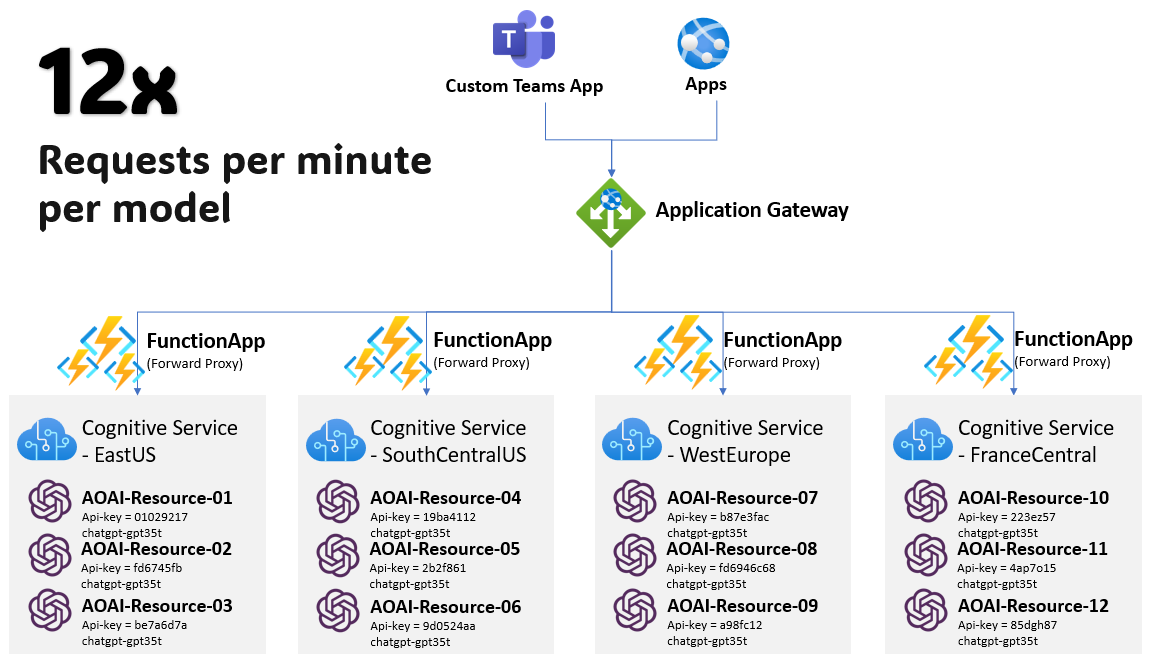
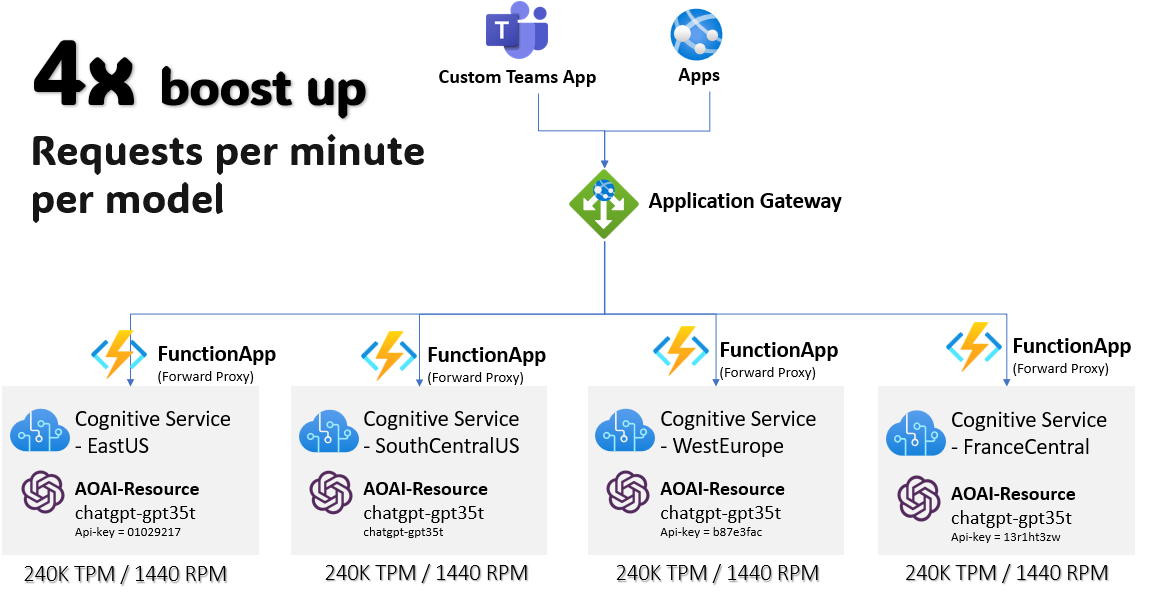
update new quotas and limits

diff --git a/README.md b/README.md
@@ -1,14 +1,17 @@
 
-# Boost up 12x Request per minute for your AOAI Resources
+# Boost up 4x Request per minute for your AOAI Resources
 ![concept1](https://github.com/denlai-mshk/aoai-fwdproxy-funcapp/blob/main/screenshots/concept1.png)
 
 ## Fully utilize AOAI quotas and limits
-As at June 2023, **one subscription** can provision **three AOAI resources per region**. Currently, there are four regional Cognitive services that support Azure OpenAI -*EastUS, South Cental US, West Europe and France Central* which allows for a **maximium 12 instances** of the same AOAI model can be provisoned across these four regions. This means you can achieve up to *(300x12/60)* = **maximium 60 request per second** for your ChatGPT model. If this is still not enough to meet your production workload requirements, you can consider getting additional subscriptions to create an AOAI resources RAID.
+As at 12 June 2023, **one subscription** can provision **30 AOAI resources per region**, sharing the same TPM and RPM limits. For example, you can allocate 3 deployment instances of GPT-35-Turbo with 80K TPM/480 RPM each to utilize the whole TPM/RPM limits for one region.
 
 ![limit](https://github.com/denlai-mshk/aoai-fwdproxy-funcapp/blob/main/screenshots/limit.png)
+![limit](https://github.com/denlai-mshk/aoai-fwdproxy-funcapp/blob/main/screenshots/newlimit.png)
+
+Currently, there are four regional Cognitive services that support Azure OpenAI -*EastUS, South Cental US, West Europe and France Central* which allows for a **maximium 120 instances** of the same AOAI model can be provisoned across these four regions. This means you can achieve up to *(1440x4/60)* = **maximium 96 request per second** for your ChatGPT model. If this is still not enough to meet your production workload requirements, you can consider getting additional subscriptions to create an AOAI resources RAID.
 
 ## Why not just raise your quotas and limits?
-You can certainly apply for quota increase requests by filling out forms, but this may not be the most practical solution as it won't give you access to the additional resources right away. Furthermore, what happens if your AOAI service demand continues to grow? Utilizing your existing quotas is the more practical solution to tackle your AOAI resource bottleneck. Remember that the **actual quotas and limits** you got is maximium 12 model instances for 1 subscription. If you have concerns on cross-region networking cost, just provison three AOAI resource instances in your favorite region with **three** same model instances, that is better than only **one**, make sense?
+You can apply for quota increase requests by filling out forms, but this may not be the most practical solution as it won't give you access to the additional resources right away. What if your AOAI service demand continues to grow? Utilizing your existing quotas is the more practical solution. Remember, you have a maximum of 120 model instances across 4 regions with 4 times quotas and limits for 1 subscription. If you don't have concerns about cross-region networking cost, spanning across regions is the fastest way to get your production rollout up and running.
 
 ## Load balancing multiple AOAI Resources 
 ![concept3](https://github.com/denlai-mshk/aoai-fwdproxy-funcapp/blob/main/screenshots/concept3.png)
